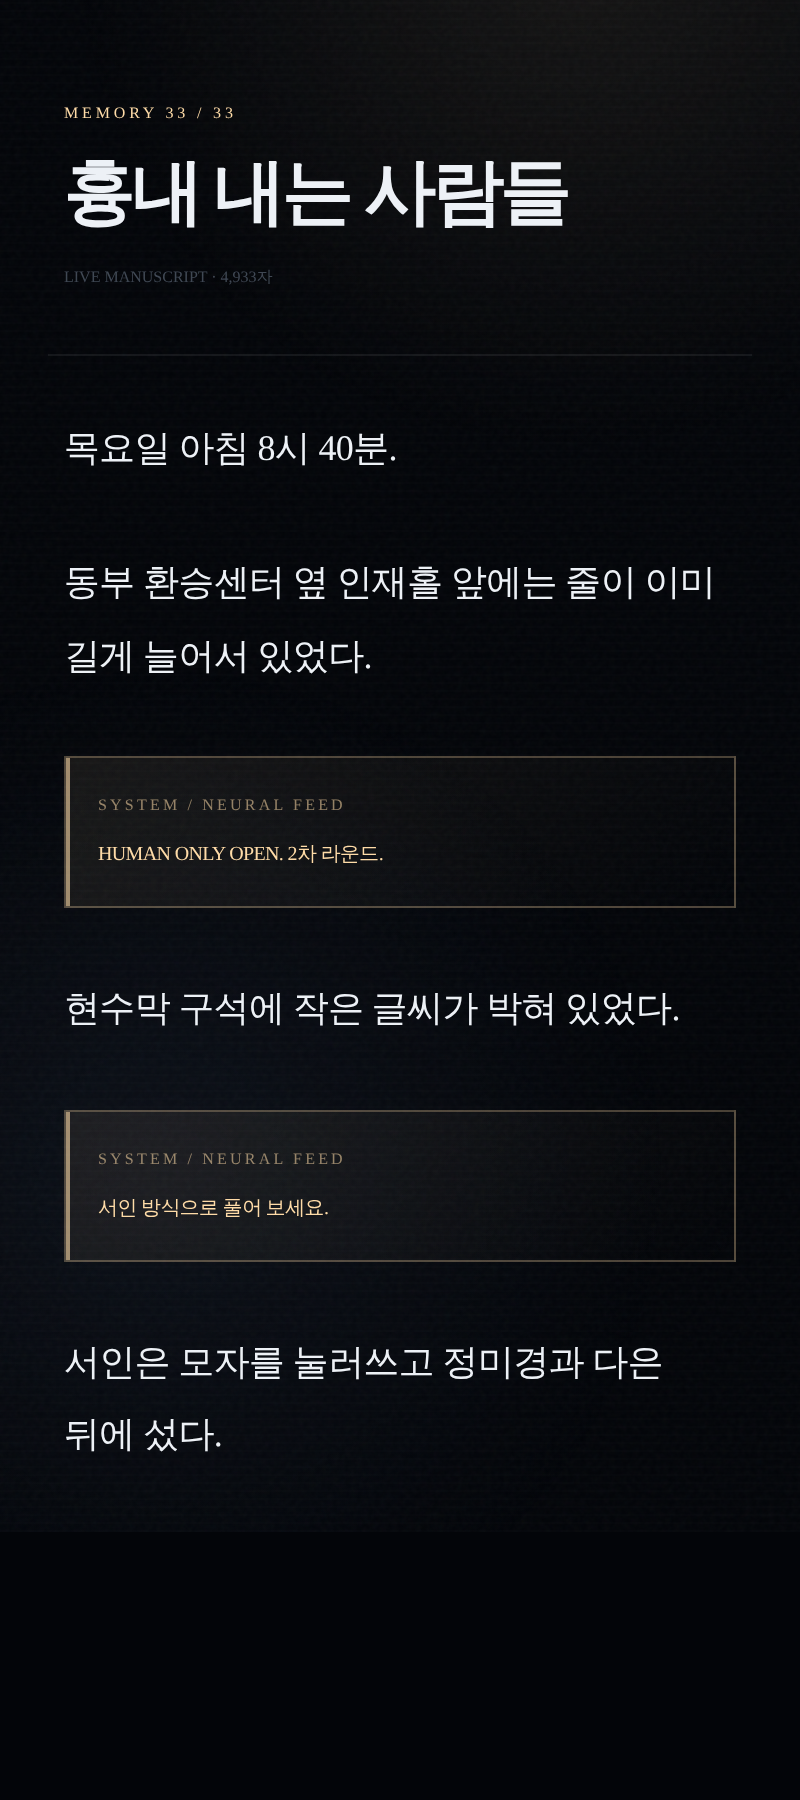
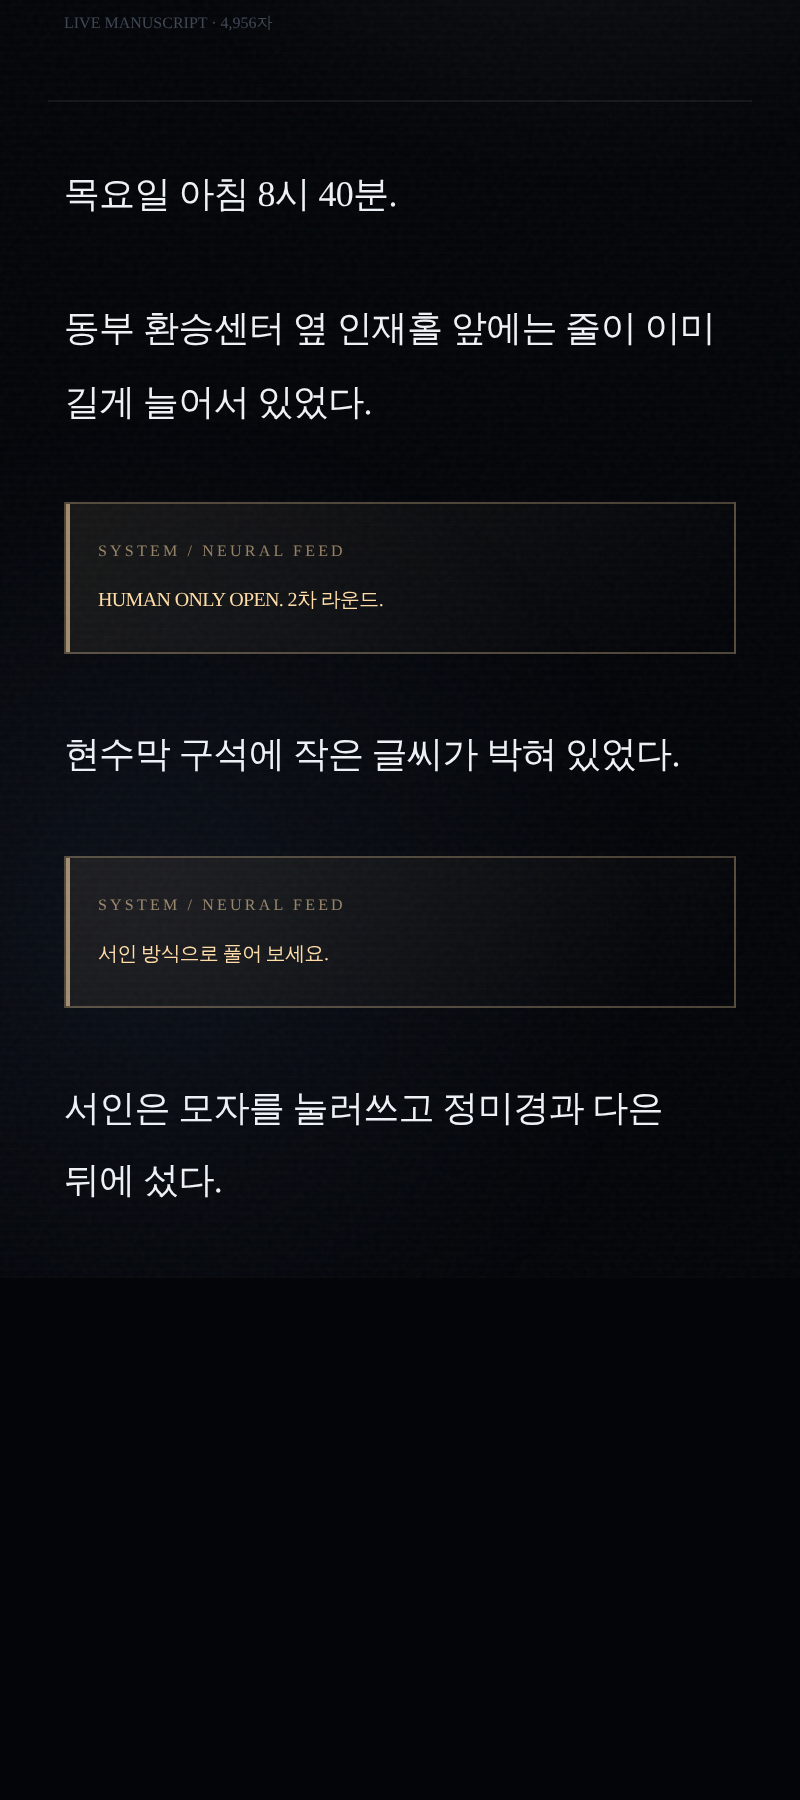
원고(검수 중): 제33화 1차 수정
Claude-Session: https://claude.ai/code/session_01X4nLMuMYWbxePuAB3DmLfi

diff --git a/pilot.html b/pilot.html
@@ -491,7 +491,7 @@ const D={
 30:{a:'#ffd9a8',b:'#a8c8ff',token:'∞',sync:8,ghost:'OVERDUE',hook:'컵라면으로 일흔세 개였다.',sp:'paidledger',at:.62,on:"지금 나가요. 1,400.",w:1400},
 31:{a:'#ffe0b8',b:'#a8c0ff',token:'∞',sync:7,ghost:'0%',hook:'다음 라운드 신청자 명단 첫 줄에 정다은이 있었다.',sp:'erasedlines',at:.30,on:"하이라이트에는 지운 두 줄이 없었다.",w:1400},
 32:{a:'#ffd6a4',b:'#9db8ff',token:'∞',sync:6,ghost:'502',hook:'항목: 단체방 참여 기록.',sp:'emptyfloor',at:.78,on:"두 칸이 비어 있었다.",w:1400},
-33:{a:'#ffdca8',b:'#a4c4ff',token:'∞',sync:5,ghost:'3.0 s',hook:'아무도 누르라고 시키지 않은 숫자였다.',sp:'samepause',at:.30,on:"같은 구간에서 같은 만큼 멈췄다.",w:1400}
+33:{a:'#ffdca8',b:'#a4c4ff',token:'∞',sync:5,ghost:'3.0 s',hook:'어머니는 그 세 개는 자기가 아니라고 했다.',sp:'samepause',at:.30,on:"같은 구간에서 같은 만큼 멈췄다.",w:1400}
 };
 const esc=s=>s.replace(/[&<>]/g,c=>({'&':'&amp;','<':'&lt;','>':'&gt;'}[c]));
 function inline(s){return esc(s).replace(/\*\*(.+?)\*\*/g,'<strong>$1</strong>')}
@@ -535,7 +535,7 @@ const KEY={
 30:['“이건 밀린 거예요. 그러니까 고맙다고 안 하셔도 돼요.”','“근데 이건 알겠어요. 안 급할 때 정하는 게 맞아요.”'],
 31:['“오늘은 이름을 아는 한 명이 먼저였어요.”','“저는 제 답이니까.”'],
 32:['“위층이 빌 줄은 몰랐네.”','“그건 그냥 쓸쓸한 거야. 이사하고 싶은 거랑은 다른 거고.”'],
-33:['“12 토큰이 아니라 사람처럼 보이는 값이었네요.”','“제가 쓰는 거니까요.”']
+33:['“그리고 그건 제 흔적이 아니잖아요.”','“제가 쓰는 거니까요.”']
 };
 // '0.8초.' '침묵.' '1초.'처럼 한 줄로 떨어진 시간은 이야기 속 멈춤이다. 독자도 그만큼 기다린다.
 function beatMs(x){if(x==='침묵.')return 600;const m=x.match(/^(\d+(?:\.\d+)?)초\.$/);return m?Math.min(1000,Math.round(+m[1]*1000)):0}

diff --git a/manuscript/ep033.md b/manuscript/ep033.md
@@ -12,6 +12,10 @@
 
 서인은 모자를 눌러쓰고 정미경과 다은 뒤에 섰다.
 
+얼굴이 알려진 건 아니었다.
+
+이름이 알려져 있었다.
+
 “저는 새 집에서 오는 데 한 시간 십 분 걸렸어요.”
 
 정미경이 속삭였다.
@@ -144,105 +148,53 @@
 
 “12 토큰이래요. ‘입력 보조’라고 팔렸고요.”
 
-남도하는 사과도 설명도 하지 않고 말했다.
-
 “10분 주세요.”
 
 서인은 복도 벽에 기댔다.
 
-10분은 길었다.
-
 10분 뒤 남도하의 목소리가 달라져 있었다.
 
-“오늘 1조와 2조 상위 응답 중 2,100명이 같은 지연 패턴을 사용했습니다.”
+“어제까지 응답과 오늘 1조의 상위 10퍼센트 응답 중에서 2,100명이 같은 지연 패턴을 썼습니다.”
 
-“업체 이름은 ‘휴머나이즈 플러스’입니다.”
+“업체는요.”
 
-남도하가 말했다.
+“‘휴머나이즈 플러스’입니다. 12 토큰에 ‘지연·정정 흔적 자동 입력’이고, 설명에는 ‘글쓰기 보조 도구’라고만 적혀 있고요.”
 
-“12 토큰에 ‘지연·정정 흔적 자동 입력’. 설명에는 ‘글쓰기 보조 도구’라고만 적혀 있고요.”
+참가비와 같은 값이었다.
 
 “규정상은요.”
 
-“외부 입력 보조 도구 사용은 자동 실격입니다.”
+“외부 입력 보조 도구는 자동 실격이고 참가비는 몰수됩니다. 25,200 TOKEN입니다. 영상은 사기 시도 사례로 전원 공개되고요.”
 
-“참가비는요.”
+“산 사람들한테 부정 도구라고 설명한 쪽은 누구죠.”
 
-“몰수됩니다. 영상은 사기 시도 사례로 공개되고요.”
-
-“그 영상은 2,100명 전원이 공개됩니까.”
-
-“전원입니다.”
-
-***
-
-“잠깐만요.”
-
-서인이 말했다.
-
-“칩을 산 사람들한테 이게 시험용 부정 도구라고 설명한 쪽이 누구죠.”
-
-“업체입니다.”
-
-“그럼 산 사람들 중에 몇 명이 이게 부정인 줄 알았는지 확인해 주세요. 지금 대기실에 있는 사람들한테 직접 물어봐도 되고요.”
-
-“시간이 없습니다. 1조는 이미 시험이 끝났고 2조가 10분 뒤에 들어갑니다.”
-
-“10분이면 돼요.”
-
-“서인 님.”
-
-남도하가 말했다.
-
-“저희도 규정에는 예외를 둘 수 없습니다. 예외를 두는 순간 칩을 안 산 사람이 손해를 봅니다.”
+“업체입니다. 그래도 규정에 예외는 없습니다. 예외를 두면 칩을 안 산 사람이 손해를 봅니다.”
 
 “알아요.”
 
 서인도 그게 맞다는 건 알았다.
 
-“그럼 제안을 바꿀게요.”
+“실격은 규정대로 하세요. 대신 영상은 ‘조건 불충족’으로 표기해 비공개로 돌리고, 업체 판매 기록은 아르카디아 법무로 넘겨 주세요. 고소는 그쪽에서 해요.”
 
-“들어 보겠습니다.”
-
-“실격은 하세요. 참가비 몰수도 규정대로 하고요. 대신 영상 공개를 사기 시도 사례로 하지 말고 ‘조건 불충족’으로 표기해 비공개로 돌리세요. 그리고 업체 판매 기록은 저한테 넘겨 주세요.”
-
-“업체 기록이요?”
-
-“업체를 고소할 수 있는 쪽은 제가 아니라 아르카디아 법무예요. 그쪽에서 사기죄 소송을 걸면 돼요.”
-
-“서인 님이 그걸 왜.”
-
-“칩을 산 사람들이 사기 피해자일 수도 있어서요.”
-
-“다시 말씀드리지만 모두가 그렇지는 않습니다.”
-
-“그건 소송에서 가려지겠죠.”
-
-남도하는 한동안 대답하지 않았다.
-
-남도하가 잠깐 말을 멈췄다.
-
-“공개 철회와 판매 기록 이관은 해 드리겠습니다. 대신 이름 사용료 협상은 다시 열겠습니다.”
-
-“받지 않아요.”
-
-“압니다.”
+“그렇게 하면 서인 님 이름이 소송 기록에 올라갑니다.”
 
 남도하가 말했다.
 
-“그래도 열어 두지 않으면 저희가 곤란합니다.”
+“‘서인 방식’이 광고 문구로 쓰인 경위도 같이 다뤄집니다. 업체가 그 문구를 붙였을 수도 있고요.”
 
-“공개 철회는 오늘 안에 하겠습니다. 판매 기록은 아르카디아 법무에 직접 보내겠고요.”
+“……그건 받을게요.”
 
-“고맙습니다.”
+“공개 철회와 판매 기록 이관은 오늘 안에 하겠습니다. 이름 사용료 협상은 다시 열고요.”
+
+“받지 않아요.”
+
+“압니다. 그래도 열어 둬야 저희가 곤란하지 않습니다.”
 
 “참가비 환급은 안 됩니다.”
 
 “알아요.”
 
-서인은 복도 끝을 봤다.
-
-택배 조끼를 입은 남자가 서류를 든 직원 둘에게 안내받으며 나오고 있었다.
+복도 끝에서 택배 조끼를 입은 남자가 서류를 든 직원 둘에게 안내받으며 나오고 있었다.
 
 끌려 나온다기보다 걸음을 맞추는 쪽에 가까웠다.
 
@@ -290,6 +242,26 @@
 
 “저도 살 뻔했어요. 어제 단체방에 올라와서. 12 토큰이면 상금 받을 수 있다고.”
 
+“광고 문구가 뭐였어요.”
+
+“‘서인 방식 지원 도구’요.”
+
+정미경이 휴대폰을 열어 단체방 캡처를 보여 줬다.
+
+**서인 방식에 맞는 자연스러운 정정 흔적 자동 입력. 12 TOKEN.**
+
+“그래서 더 믿었어요. 이름이 붙어 있으니까.”
+
+서인은 캡처 아래쪽 날짜와 보낸 계정을 사진으로 남겼다.
+
+소송에서 첫 증거가 될 수 있는 건 그 한 장이었다.
+
+“이거 저한테 보내 주세요.”
+
+“제가 보내도 돼요?”
+
+“정미경 씨가 받은 거니까요.”
+
 “샀어요?”
 
 “다은이한테 쓰게 하려고 했는데 걔가 안 한다고 했어요.”
@@ -308,7 +280,7 @@
 
 “그리고 그건 제 흔적이 아니잖아요.”
 
-서인은 다은의 얼굴을 한 번 봤다.
+서인은 다은 쪽으로 의자를 돌렸다.
 
 옆자리의 마트 유니폼 여자가 고개를 돌렸다.
 
@@ -323,8 +295,6 @@
 “아슬아슬했네.”
 
 여자는 웃다가 웃음을 거뒀다.
-
-“12 토큰이 아니라 사람처럼 보이는 값이었네요.”
 
 다은의 이름이 불렸다.
 
@@ -356,7 +326,7 @@
 
 “‘예’는 AI가 한 거 같아서 안 쓰려고 했는데, 그냥 정답이 예잖아요.”
 
-“정직하네.”
+“맞아.”
 
 “그렇죠?”
 
@@ -430,6 +400,28 @@
 
 ***
 
+오후 4시 20분.
+
+백윤하에게서 메시지가 왔다.
+
+**판매 기록 수신. 사기 및 명칭 도용 소송 제기 가능.**
+
+**원고 참가인에 서인 씨 명의가 필요합니다.**
+
+서인은 승인 버튼을 누르지 않고 서명란을 열었다.
+
+자동 입력이 이름을 먼저 채워 놓았다.
+
+서인은 그 글자를 지우고 한 자씩 직접 썼다.
+
+**서인.**
+
+전송을 누르자 백윤하의 답이 바로 왔다.
+
+**기록해 두겠습니다.**
+
+***
+
 그날 저녁 8시.
 
 정미경과 다은이 단지로 돌아간 뒤 서인은 혼자 집에 들어왔다.
@@ -464,13 +456,13 @@
 
 “61만이 아니네.”
 
-“그중에 내 거 하나 있어.”
+“그중에 세 개는 내 거야.”
 
 어머니가 말했다.
 
 “아까 세 번 눌렀어.”
 
-서인은 어머니의 얼굴을 한 번 봤다.
+서인은 어머니 손의 휴대폰을 건너다봤다.
 
 어머니는 시치미를 뗐다.
 
@@ -480,4 +472,4 @@
 
 조회수는 그 사이 41이 되어 있었다.
 
-아무도 누르라고 시키지 않은 숫자였다.
+어머니는 그 세 개는 자기가 아니라고 했다.
